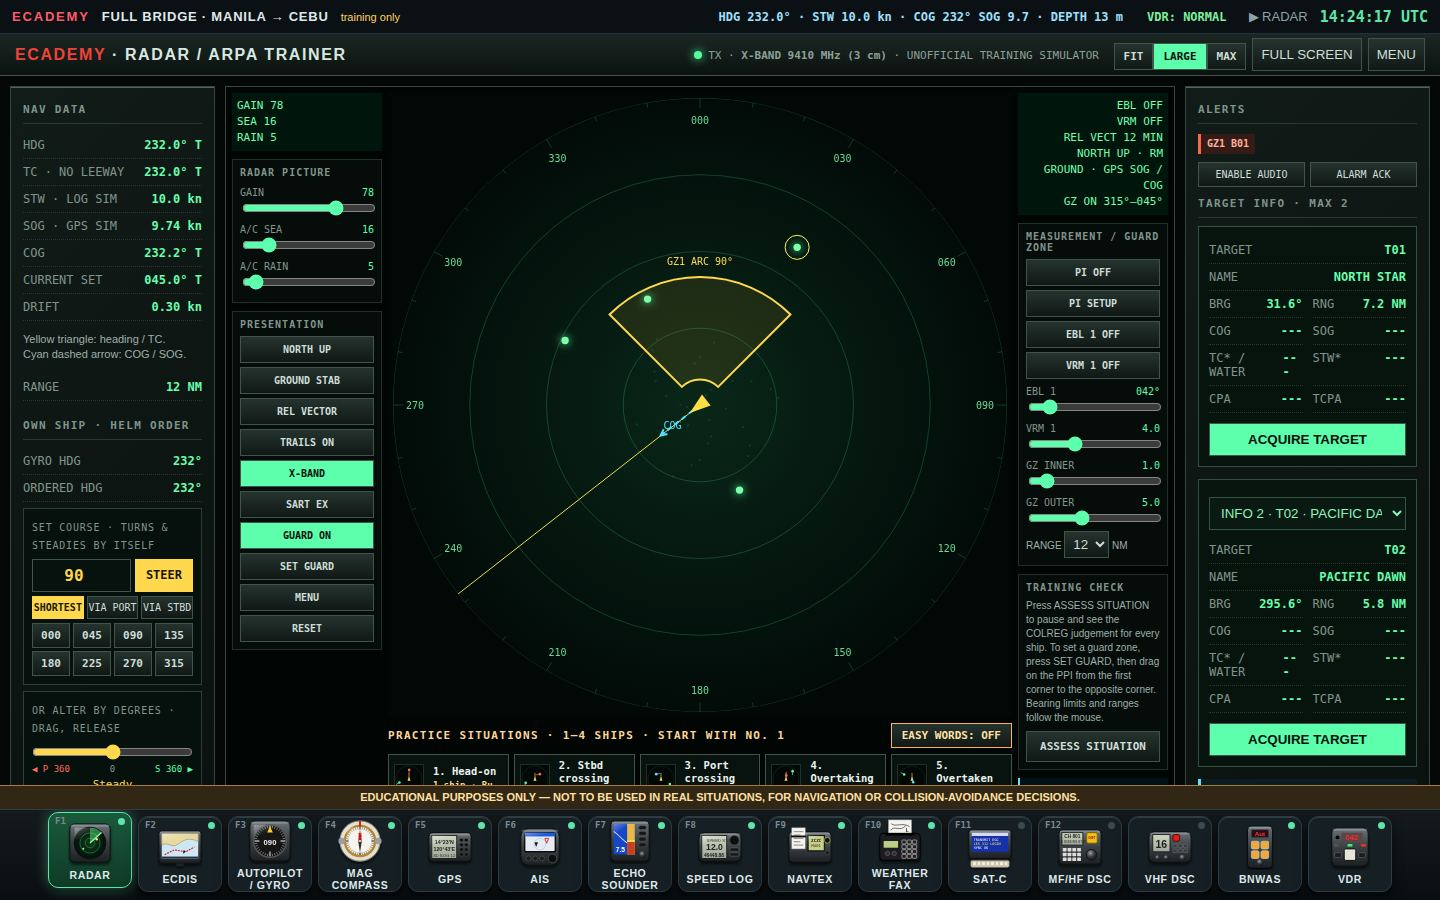
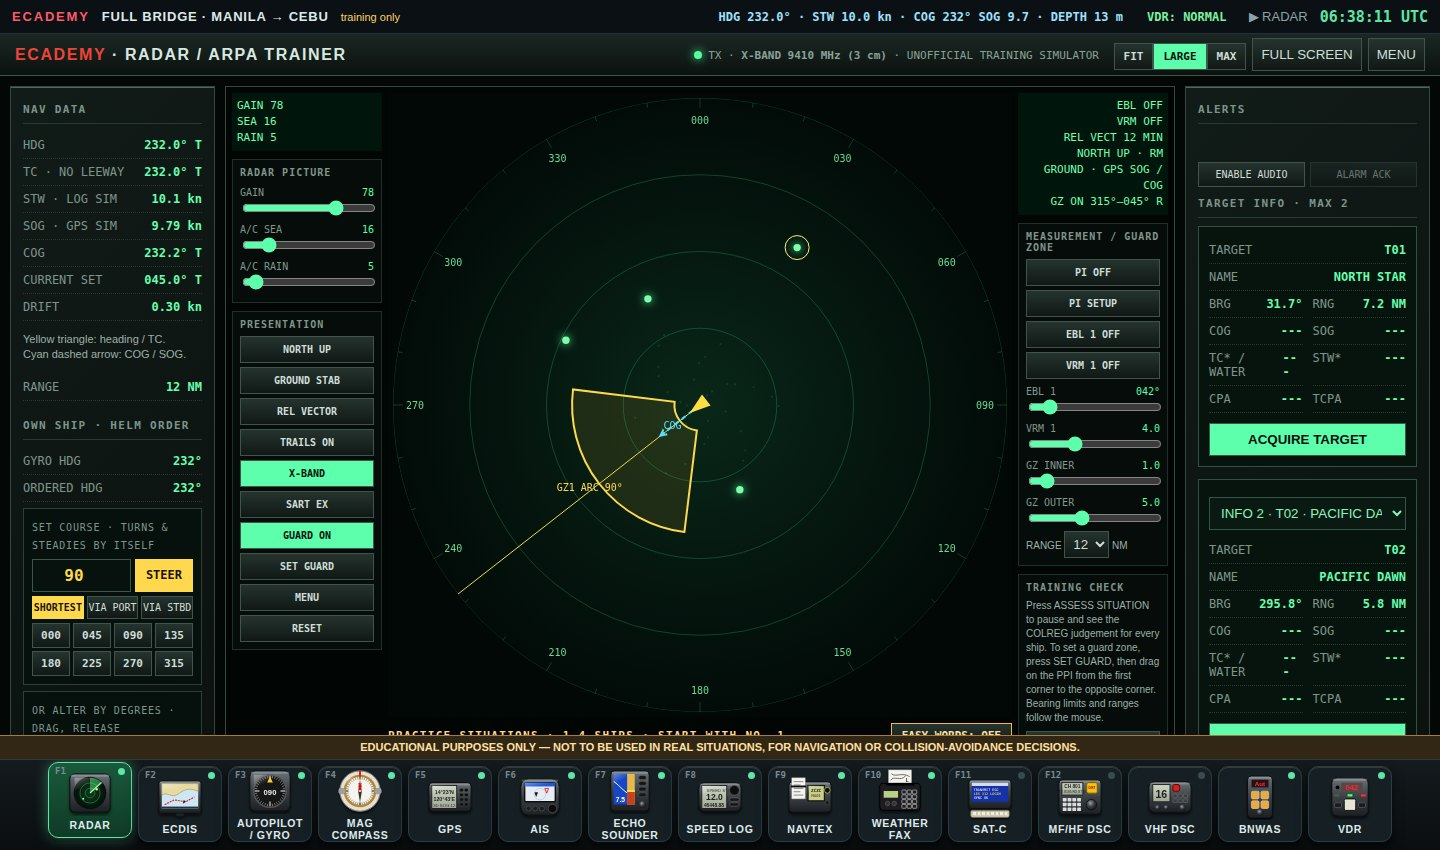
Fix Full Bridge with encrypted equipment; new bridge screenshot
- Full Bridge now unlocks its radar, ECDIS and other equipment through the hub's secure loader
  (it broke when the simulators were encrypted)
- New carousel screenshot: radar guard zone aligned with heading 232

Claude-Session: https://claude.ai/code/session_016p6D5apmuBapFoShGyYnLt

diff --git a/index.html b/index.html
@@ -1894,7 +1894,7 @@ wefax: { title: 'Weather Fax Receiver & Chart Reading', src: 'app-wefax', file: 
   function deviceId(){ let d = null; try { d = localStorage.getItem('ecademy.device'); } catch(_){}
     if(!d){ d = (crypto.randomUUID ? crypto.randomUUID() : String(Date.now()) + Math.random().toString(16).slice(2)); try { localStorage.setItem('ecademy.device', d); } catch(_){} } return d; }
   const b64 = s => Uint8Array.from(atob(s), c => c.charCodeAt(0));
-  window.ecademyOpenProtected = async function(app){
+  window.ecademyGetHtml = async function(app){
     const { data:{ session } } = await sb.auth.getSession();
     if(!session) throw new Error('Please log in to open this simulator.');
     const [bin, res] = await Promise.all([
@@ -1908,7 +1908,10 @@ wefax: { title: 'Weather Fax Receiver & Chart Reading', src: 'app-wefax', file: 
     const plain = await crypto.subtle.decrypt({ name:'AES-GCM', iv: buf.slice(0,12) }, key, buf.slice(12));
     let html = new TextDecoder().decode(plain);
     const base = '<base href="' + new URL('apps/', location.href).href + '">';
-    html = /<head[^>]*>/i.test(html) ? html.replace(/<head[^>]*>/i, m => m + base) : base + html;
+    return /<head[^>]*>/i.test(html) ? html.replace(/<head[^>]*>/i, m => m + base) : base + html;
+  };
+  window.ecademyOpenProtected = async function(app){
+    const html = await window.ecademyGetHtml(app);
     return URL.createObjectURL(new Blob([html], { type:'text/html' }));
   };
 
